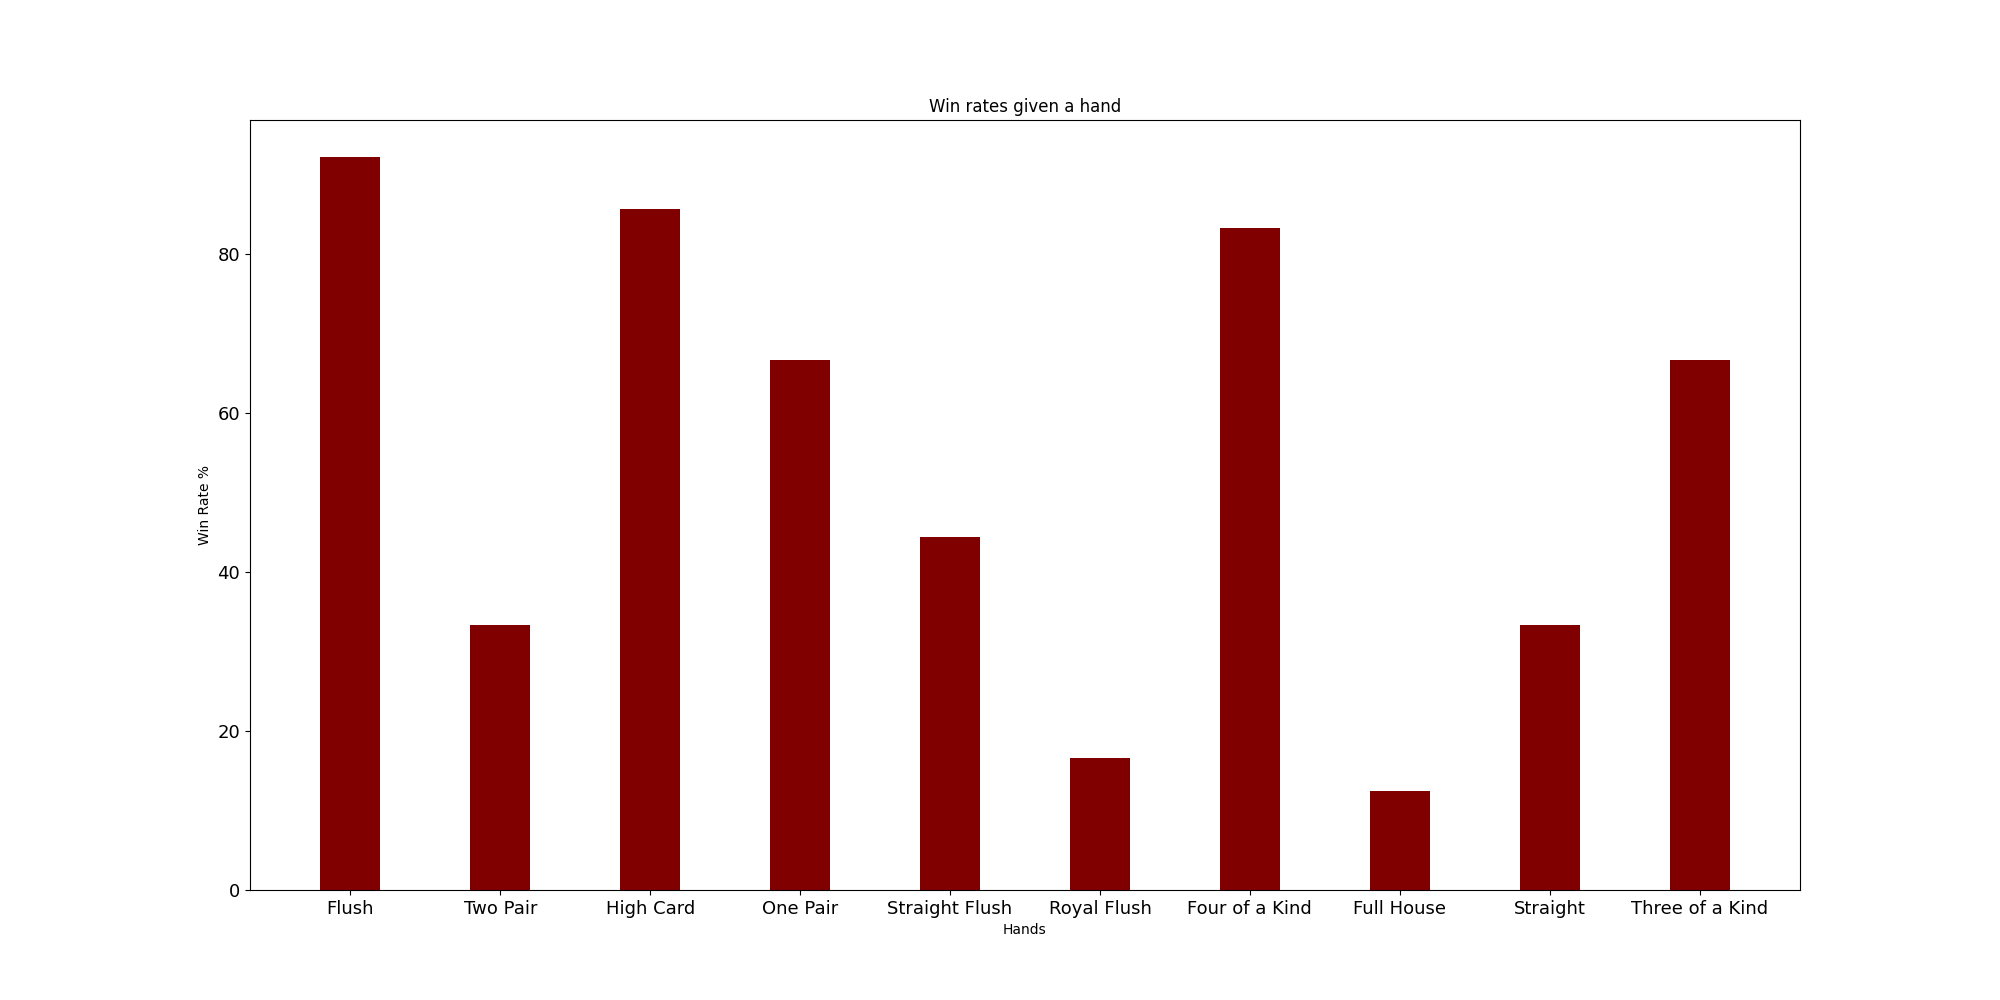
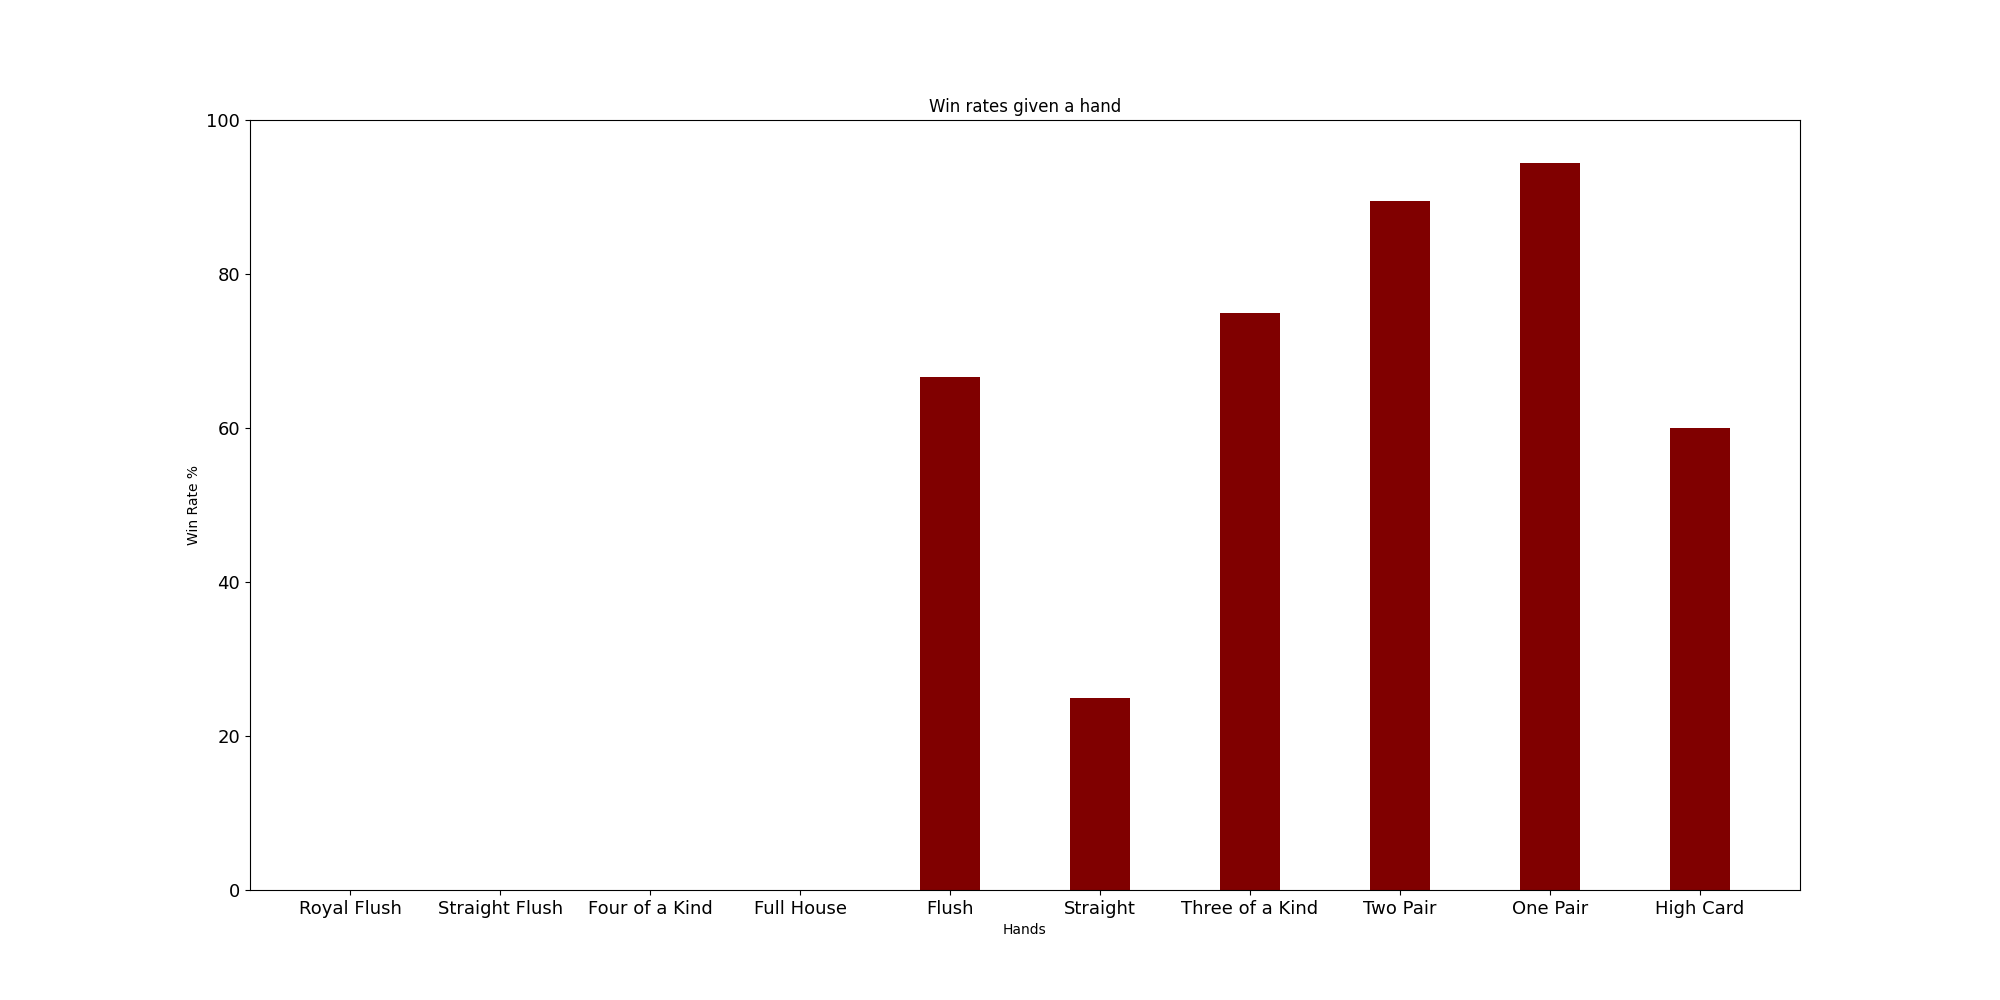
Updates Game_Wins table everytime the Report page is clicked on

diff --git a/pocket-poker/src/api/analysis.py b/pocket-poker/src/api/analysis.py
@@ -298,3 +298,18 @@ def checkAchievements(u_id, vals):
     else: #if in our csv file
         df.loc[row[0]] = dat
         df.to_csv(achFile, index = False)
+
+def updateWins():
+    for i in range(10):
+        count = supabase.table("transaction").select('id', count='exact').eq('winner_hand_id', i).execute().count
+        supabase.table('game_wins').update({'hand_wins': count}).eq('id', i).execute()
+
+def updateLosses():
+    for i in range(10):
+        count = supabase.table("transaction").select('id', count='exact').eq('losing_hand_id', i).execute().count
+        supabase.table('game_wins').update({'hand_losses': count}).eq('id', i).execute()
+
+# Slower because it has to call the database 20 times. Only call if needed.
+def updateStats():
+    updateWins()
+    updateLosses()

diff --git a/pocket-poker/src/api/flaskapi.py b/pocket-poker/src/api/flaskapi.py
@@ -1,7 +1,7 @@
 from flask import Flask 
 import flask
 import json
-from analysis import dbReport, playerReport
+from analysis import dbReport, playerReport, updateWins
 
 app = Flask(__name__)
 
@@ -10,7 +10,7 @@ app = Flask(__name__)
 
 #uses the player_id from player stats 
 def playerGraphs( player_id : int) :
-
+    updateWins()
     return flask.jsonify(playerReport(player_id))
 
 @app.route('/analysis/database')
@@ -18,7 +18,7 @@ def playerGraphs( player_id : int) :
 #generate database graphs
 
 def databaseGraphs() :
-
+    updateWins()
     return flask.jsonify(dbReport())
 
 if __name__ == "__main__":
